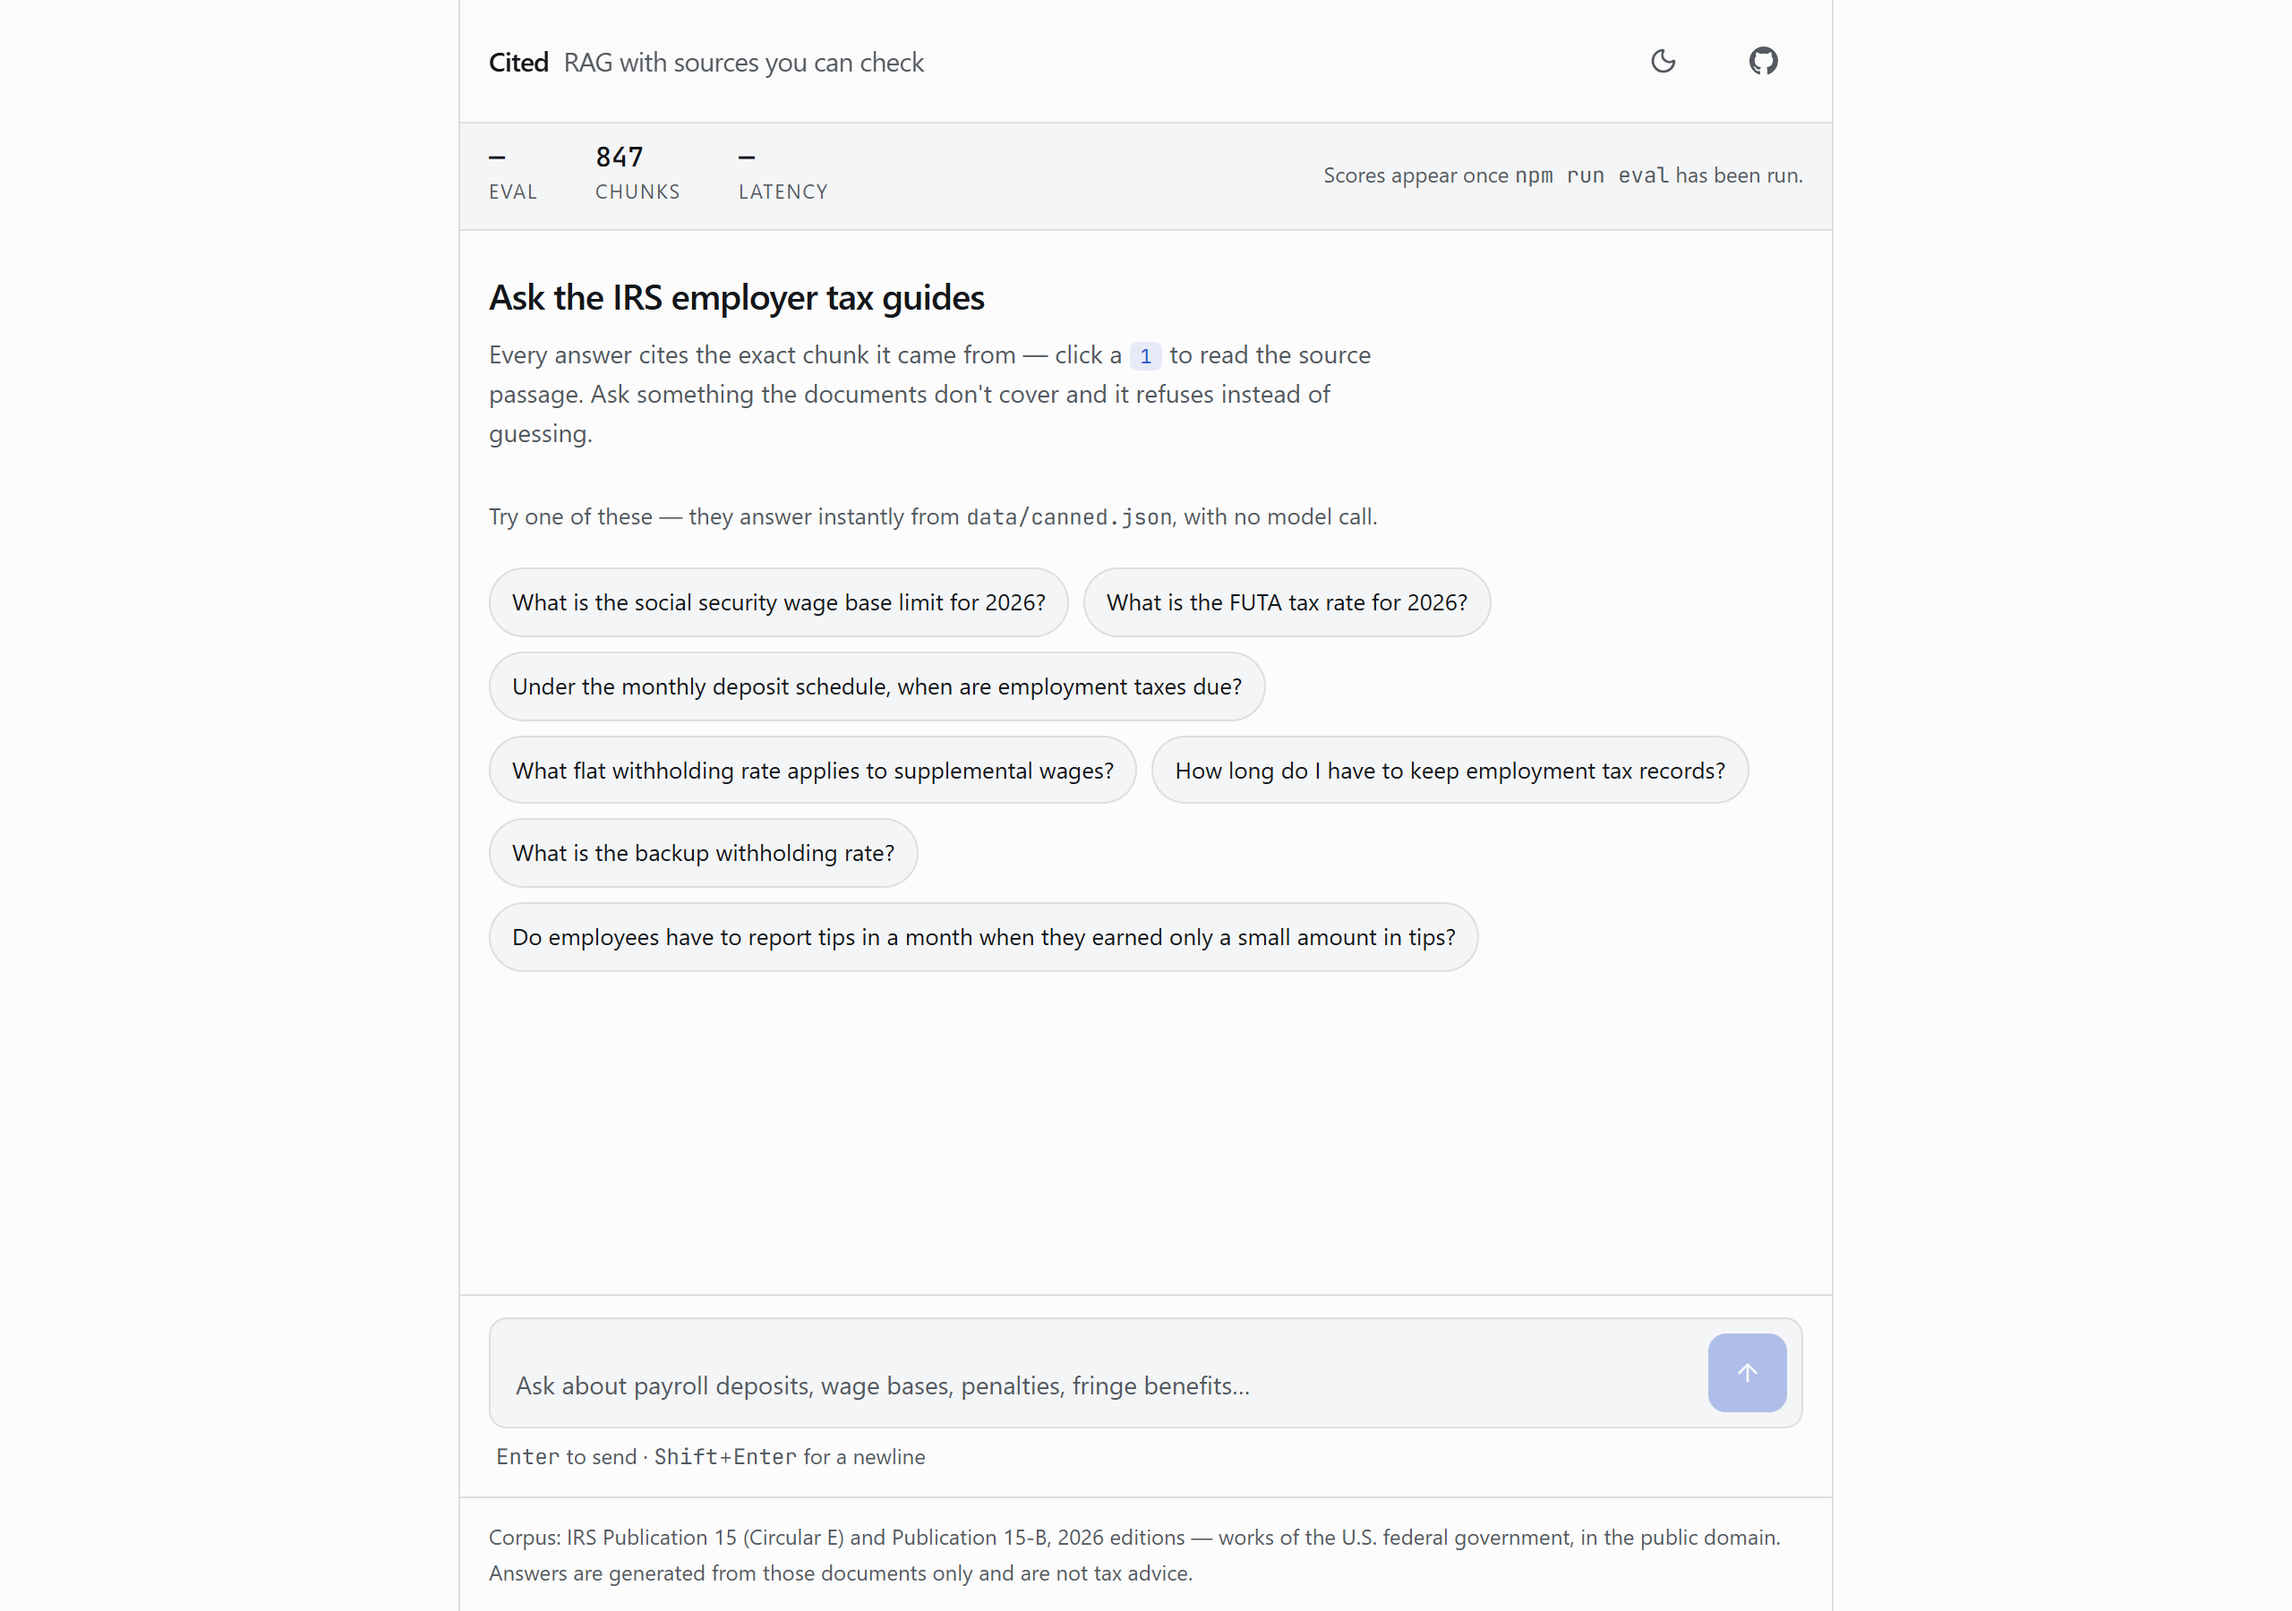
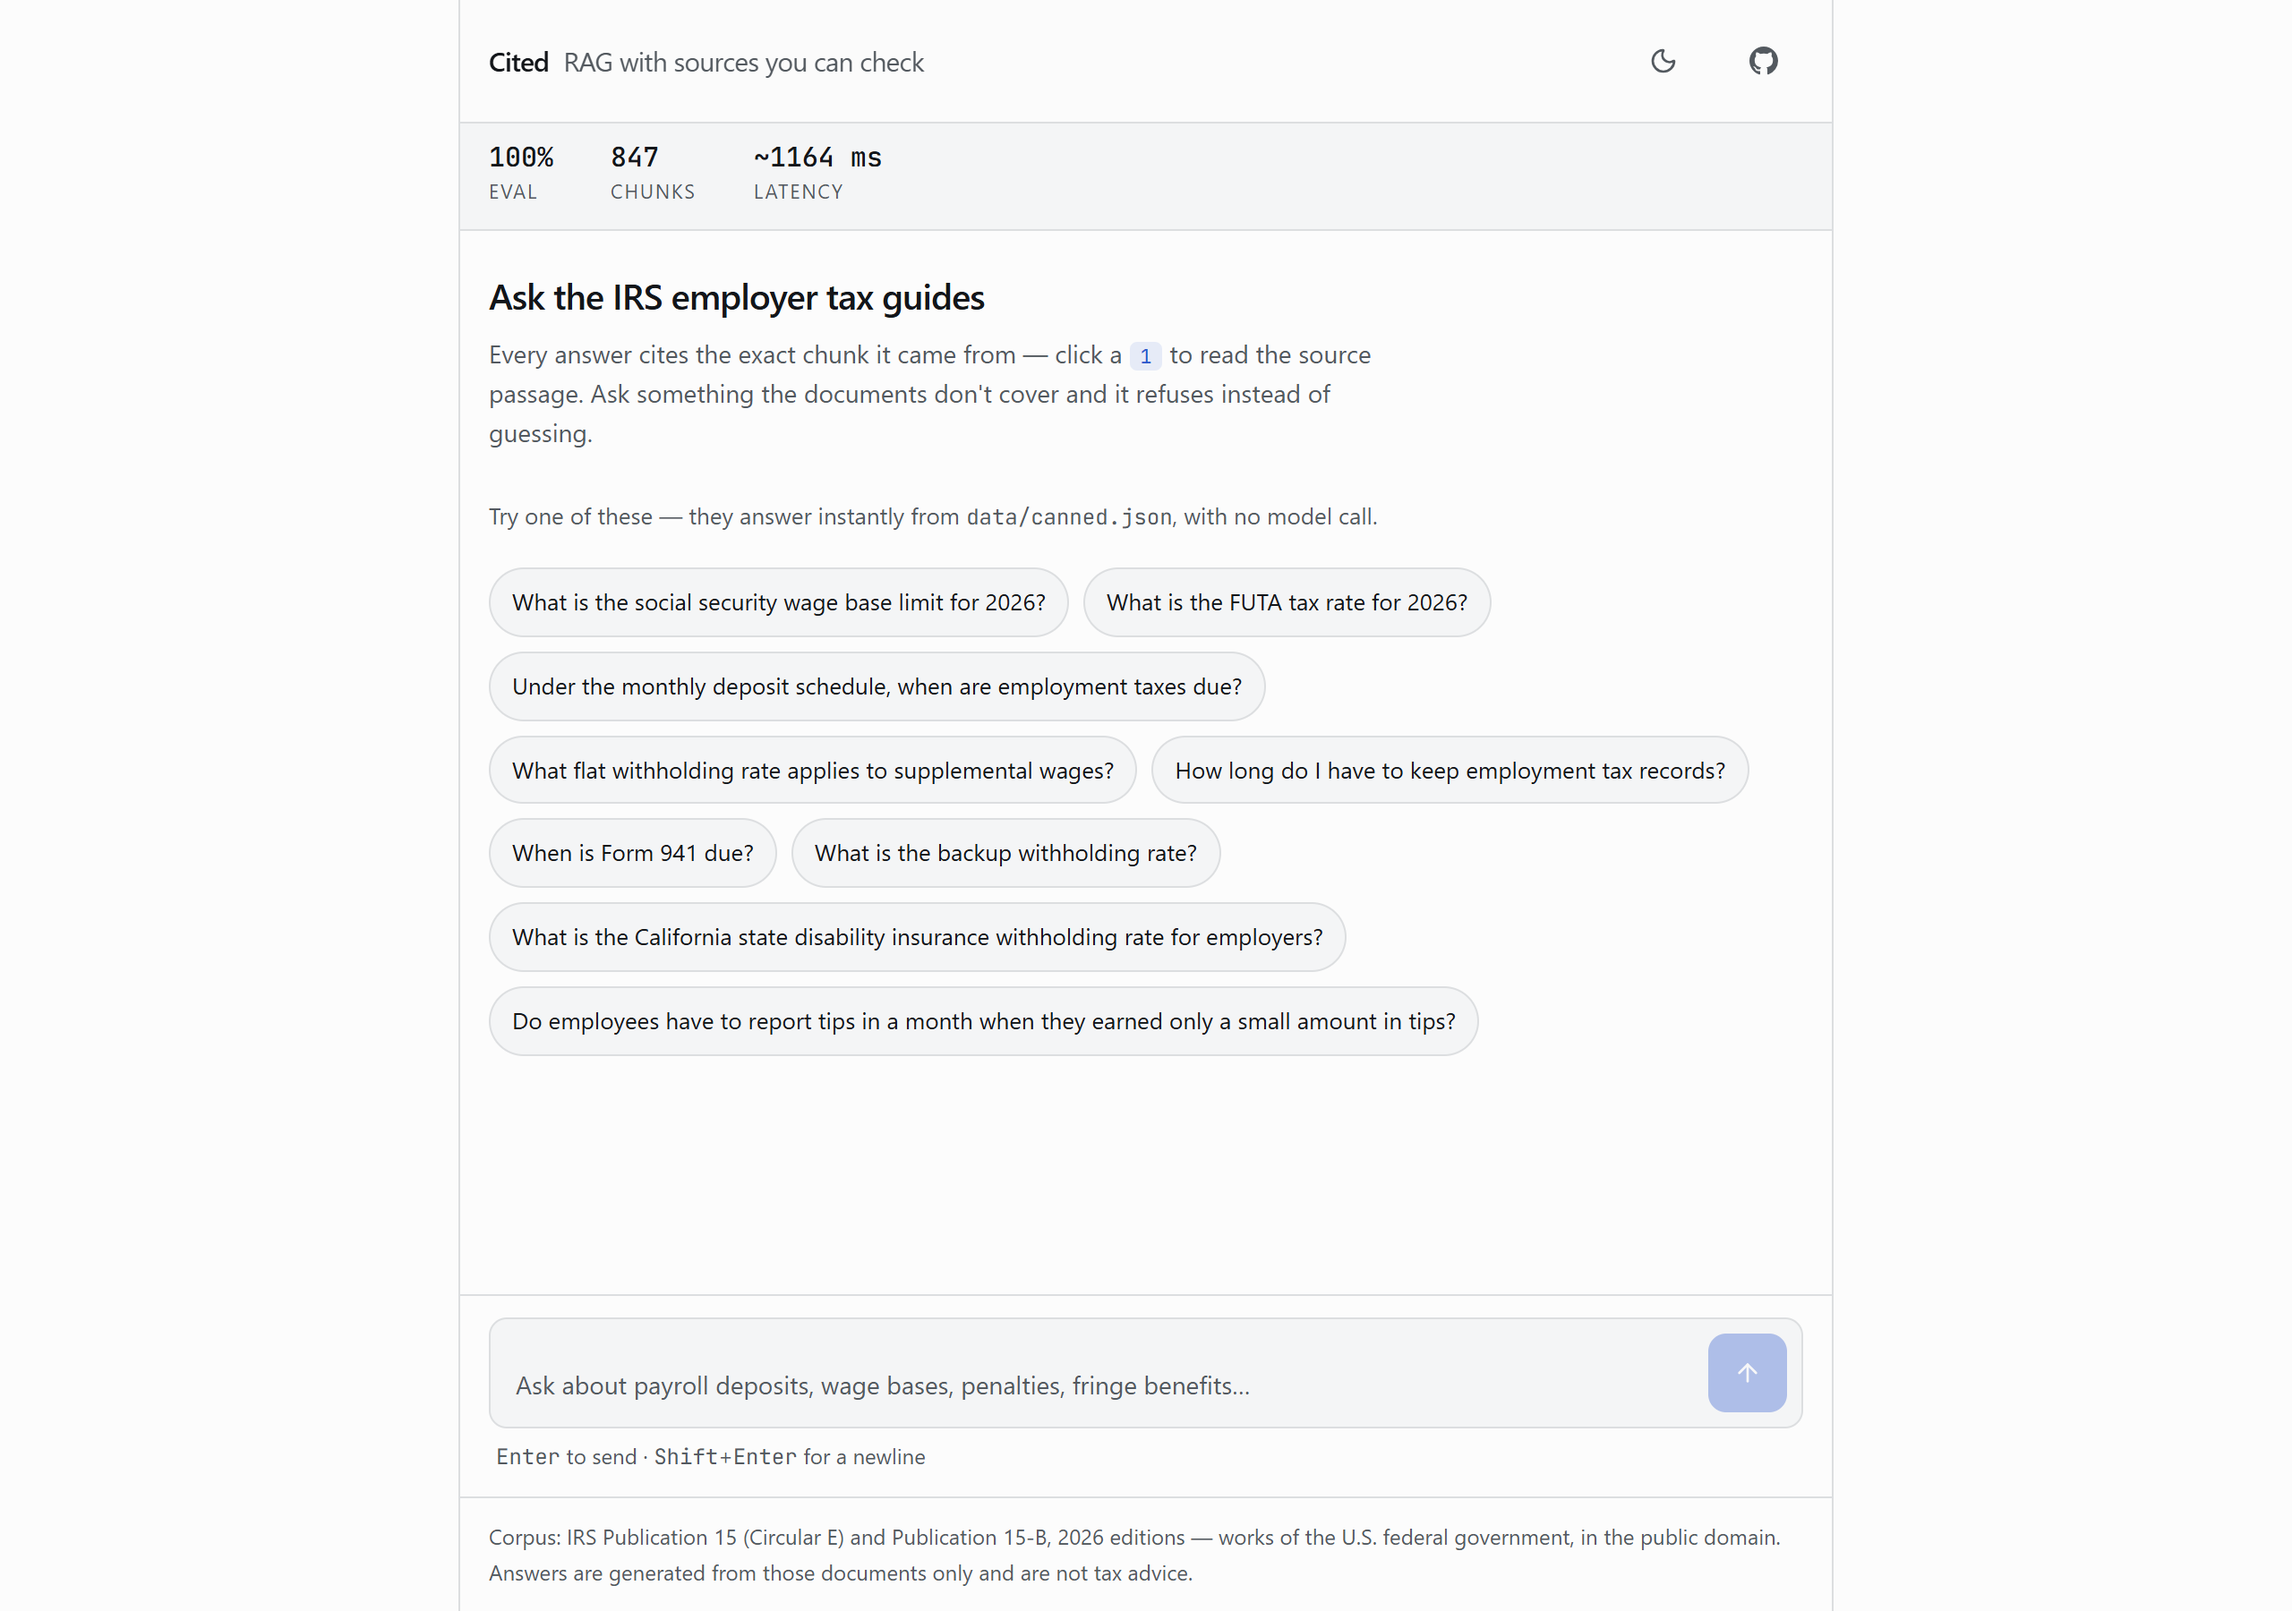
feat: publish a clean eval run — 92% hit@5, 100% answer accuracy
First run the eval runner considers publishable: 30/30 questions scored, zero
provider errors, so results.json is written and the stat bar shows a real score
instead of an em dash.

  retrieval hit@5     92%      answer accuracy    100%
  citation rate      100%      refusal precision  100%
  false refusals       0%      mean latency      1164 ms (1 ms for refusals)

Switch the default chat model to gemini-3.5-flash-lite. gemini-3.6-flash allows
20 generation requests per day on the free tier and the eval needs 25, so it was
arithmetically impossible to complete — no amount of retrying would have fixed
it. Diagnosed from the QuotaFailure detail on the 429 rather than guessed:
quotaId GenerateRequestsPerDayPerProjectPerModel-FreeTier, quotaValue 20.
flash-lite has the headroom, and for a strict extract-and-cite task it costs
nothing in quality.

The README states plainly what the numbers do and do not mean: answer accuracy
is substring containment, which is objective and non-gameable but measures
extraction from supplied context — the easier half of RAG. hit@5 at 92% is the
harder figure, and both of its misses still answered correctly because the fact
appeared in a chunk other than the one I had hand-labelled, which says the
labels are incomplete rather than that retrieval failed. Thirty questions has no
confidence interval and the README says so.

Also regenerates data/canned.json with a ninth entry that is a genuine refusal,
[…]

diff --git a/lib/llm.ts b/lib/llm.ts
@@ -46,7 +46,7 @@ export const embedModel = () =>
 const chatModel = () =>
   provider() === "ollama"
     ? (process.env.OLLAMA_MODEL ?? "llama3.2")
-    : (process.env.GOOGLE_CHAT_MODEL ?? "gemini-3.6-flash");
+    : (process.env.GOOGLE_CHAT_MODEL ?? "gemini-3.5-flash-lite");
 
 /**
  * gemini-embedding-001 returns 3072 dimensions by default, which would make

diff --git a/scripts/canned.ts b/scripts/canned.ts
@@ -32,6 +32,7 @@ const QUESTIONS = [
   "How long do I have to keep employment tax records?",
   "When is Form 941 due?",
   "What is the backup withholding rate?",
+  "What is the California state disability insurance withholding rate for employers?",
   "Do employees have to report tips in a month when they earned only a small amount in tips?",
 ];
 

diff --git a/README.md b/README.md
@@ -4,8 +4,8 @@
 
 ### ▶ [rag-chatbot-citations.vercel.app](https://rag-chatbot-citations.vercel.app)
 
-Try **"What is the capital of France?"** — it refuses in ~3 ms without calling the
-model at all. Then click any `[1]` to read the exact chunk the answer came from.
+Try **"What is the capital of France?"** — it refuses without ever calling the model.
+Then click any `[1]` to read the exact chunk the answer came from.
 
 Ask a question about 95 pages of IRS employer tax guidance. Every factual sentence
 comes back with a citation you can click open to read the exact source passage — and
@@ -46,17 +46,37 @@ sounds like it should cover but doesn't ("What is the California state disabilit
 insurance withholding rate?"). Those five measure hallucination, which is what
 actually matters.
 
-### Retrieval and the guard
+Full run, 30/30 questions scored, 0 provider errors. Reproduce with `npm run eval`;
+the raw output is in [`evals/RESULTS.md`](evals/RESULTS.md).
 
-Deterministic and generation-free — reproduce with `npm run sweep`.
+| Metric | Score | Definition |
+|---|---|---|
+| Retrieval hit@5 | **92%** | an expected source chunk appears in the top 5 |
+| Answer accuracy | **100%** | every expected string appears in the answer |
+| Citation rate | **100%** | answers carrying at least one `[n]` marker |
+| Refusal precision | **100%** | unanswerable questions correctly refused |
+| False refusal rate | **0%** | answerable questions wrongly refused |
+| Mean latency, answers | **1164 ms** | retrieve + generate |
+| Mean latency, refusals | **1 ms** | the guard returns before any model call |
 
-| Metric | Result |
-|---|---|
-| **Retrieval hit@5** | **92%** (23/25) — an expected source chunk appears in the top 5 |
-| **Guard precision** | **100%** (5/5) — every off-corpus question refused without an LLM call |
-| **False refusal from the guard** | **0%** (0/25) — no answerable question is starved of context |
-| **Refusal latency** | **3–5 ms** — no network call happens at all |
-| Corpus | 847 chunks · 2 documents · 95 pages · 6.5 MB vector store |
+Corpus: 847 chunks · 2 documents · 95 pages · 6.5 MB vector store ·
+`gemini-embedding-001` (768d) · `gemini-3.5-flash-lite`.
+
+**Read those numbers honestly.** Two of them deserve caveats:
+
+- **Answer accuracy is substring containment**, not semantic judgement: it asks whether
+  `"$184,500"` appears in the answer. That is a deliberately objective, non-gameable
+  check — no LLM-as-judge — but it measures *extraction from supplied context*, which
+  is the easier half of RAG. 100% here means the model reliably quotes what retrieval
+  put in front of it. It does not mean the system is 100% right about tax law.
+- **hit@5 is the harder number, and it's 92%.** Two questions didn't surface the chunk
+  I'd nominated. Both still answered correctly, because the fact appeared in a
+  *different* retrieved chunk — which says my hand-labelled "expected" chunk was
+  incomplete, not that retrieval failed. A stricter eval would label every chunk
+  containing the fact.
+
+Only 30 questions, so none of this has a confidence interval. It's enough to catch a
+broken guard or a regression in chunking; it is not a benchmark.
 
 ### Why the similarity floor is 0.68, not 0.35
 
@@ -67,7 +87,7 @@ this corpus *every* question scores above 0.60, on-topic or not. A 0.35 floor wo
 never reject anything, and the refusal guarantee would silently be resting on the
 prompt instead.
 
-`npm run sweep` measures the actual distributions:
+The sweep measures the actual distributions:
 
 | | top-1 cosine |
 |---|---|
@@ -87,23 +107,27 @@ it is fitted to 30 questions** — a genuinely borderline question could land in
 and the band moves with the corpus, the chunker and the embedding model. The sweep is
 in the repo so it can be re-run rather than trusted.
 
-### Answer quality — pending one command
+### The runner refuses to publish a score it doesn't trust
 
-`npm run eval` also measures **answer accuracy**, **citation rate** and **latency**,
-which require generation. The last full run was cut short by the free tier's daily
-generation limit, and the runner is deliberately built to **refuse to publish a
-contaminated score**: it excludes questions that failed on provider errors, stamps
-`evals/RESULTS.md` as `INCOMPLETE`, withholds `evals/results.json` (the file the stat
-bar reads), and exits non-zero.
+Getting to a clean run took three attempts, and the failures are the reason this part
+is built the way it is. A provider 429 is an infrastructure failure, not a wrong
+answer — but the first version of the runner counted it as one and reported **84%**
+when nothing about the pipeline had actually failed. Understating a score is as
+dishonest as inflating it.
 
-So the stat bar currently shows `—` rather than a number I can't stand behind. One
-command fills it in:
+So now: errored questions are excluded from the metrics, `RESULTS.md` is stamped
+`INCOMPLETE — DO NOT PUBLISH`, `results.json` (the only file the app's stat bar reads)
+is **withheld**, and the process exits non-zero. The stat bar shows `—` rather than a
+number nobody can stand behind, and CI would fail on it.
 
-```bash
-npm run eval     # writes evals/RESULTS.md + results.json, lights up the stat bar
-```
+The run that produced the table above reports `"errored": 0, "incomplete": false`.
 
-A real 82% is worth more than a fabricated 97%.
+**The free tier also forced a model change.** `gemini-3.6-flash` allows **20 generation
+requests per day** — the eval needs 25, so it was arithmetically impossible to complete
+and no amount of retrying would have fixed it. Diagnosed from the `QuotaFailure`
+detail on the 429 (`quotaId: GenerateRequestsPerDayPerProjectPerModel-FreeTier,
+quotaValue: 20`), not guessed. `gemini-3.5-flash-lite` has the headroom and, being a
+strict extract-and-cite task, costs nothing in quality here.
 
 ---
 

diff --git a/evals/RESULTS.md b/evals/RESULTS.md
@@ -1,0 +1,49 @@
+# Eval results
+
+Generated by `npm run eval`. Do not edit by hand.
+
+- **Corpus:** IRS Publication 15 (Circular E) and Publication 15-B, 2026 editions — 847 chunks
+- **Run at:** 2026-09-12T14:27:24.643Z
+- **Provider:** `google`
+- **Retrieval:** top-5, cosine, similarity floor **0.68**, at most 3 chunks per source
+- **Chunking:** ~800 chars, 150 chars overlap, 100-char floor
+- **Questions:** 25 answerable, 5 unanswerable
+
+## Metrics
+
+| Metric | Score | Definition |
+|---|---|---|
+| Retrieval hit@5 | 92% | an expected source id appears in the top 5 |
+| Answer accuracy | 100% | every expected string appears in the answer |
+| Citation rate | 100% | answers carrying at least one `[n]` marker |
+| Refusal precision | 100% | unanswerable questions correctly refused |
+| False refusal rate | 0% | answerable questions wrongly refused (lower is better) |
+| Mean latency (answers) | 1164 ms | retrieve + generate. **Excludes query embedding**, which is cached across runs, and excludes retry backoff |
+| Mean latency (refusals) | 1 ms | retrieve only — the guard short-circuits before any model call |
+
+## Similarity floor
+
+Retrieval-only sweep over the same question set — no model calls, so these
+numbers are deterministic. `starved` is the share of answerable questions left
+with zero context (a guaranteed false refusal); `guarded` is the share of
+off-corpus questions stopped before the model is ever called.
+
+| Floor | hit@5 | starved | guarded |
+|---|---|---|---|
+| 0.30 | 92% | 0% | 0% |
+| 0.40 | 92% | 0% | 0% |
+| 0.50 | 92% | 0% | 0% |
+| 0.55 | 92% | 0% | 0% |
+| 0.60 | 92% | 0% | 0% |
+| 0.62 | 92% | 0% | 20% |
+| 0.64 | 92% | 0% | 80% |
+| 0.66 | 92% | 0% | 100% |
+| 0.68 **(in use)** | 92% | 0% | 100% |
+| 0.70 | 92% | 0% | 100% |
+| 0.72 | 84% | 8% | 100% |
+| 0.75 | 52% | 36% | 100% |
+| 0.80 | 4% | 96% | 100% |
+
+## Failures
+
+None.
